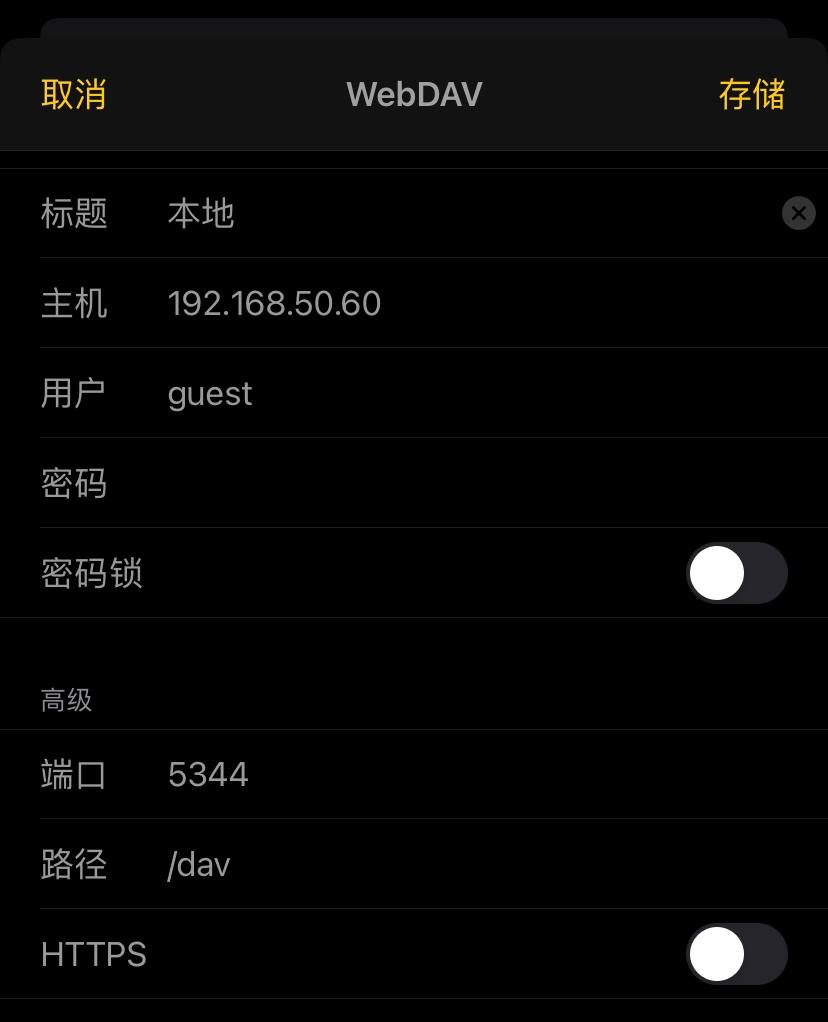
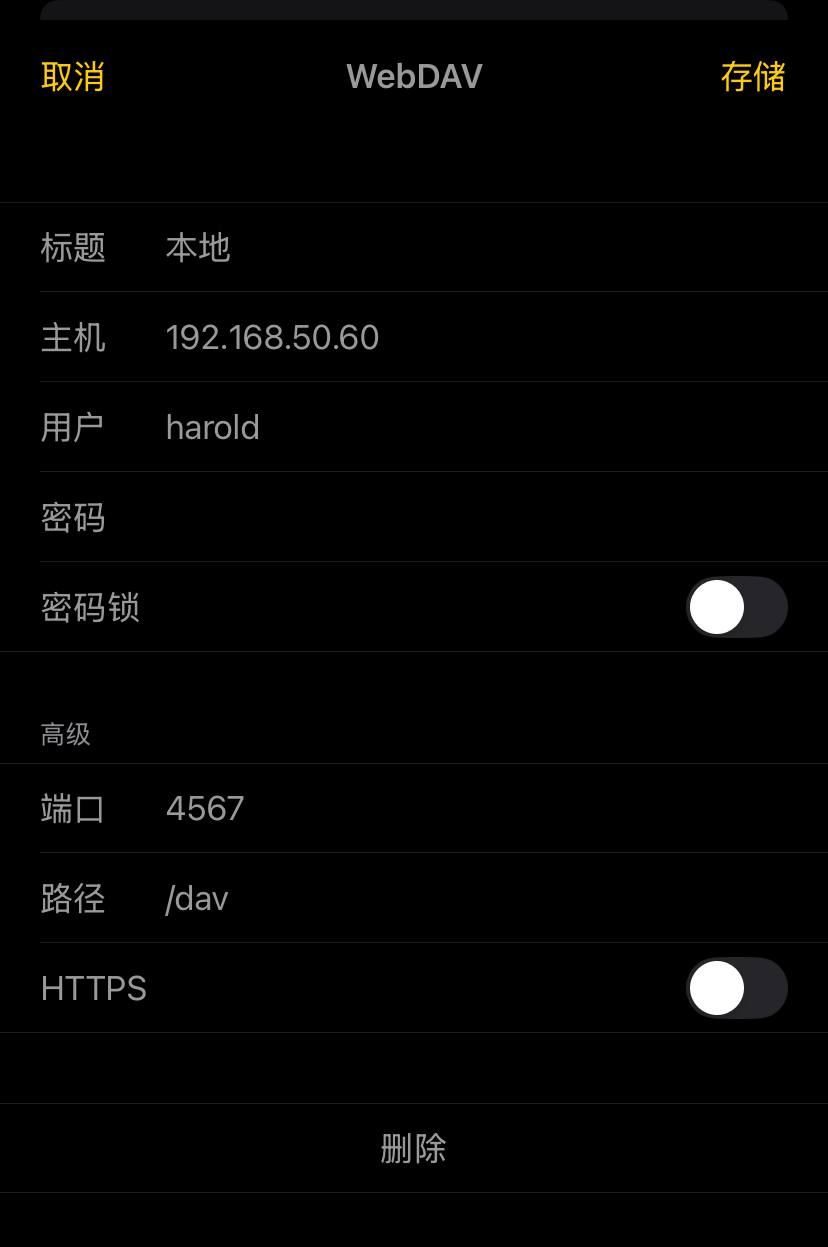
webdav代理

diff --git a/web-ui/src/views/VodView.vue b/web-ui/src/views/VodView.vue
@@ -69,7 +69,7 @@
           <el-table-column type="selection" width="55" v-if="isHistory"/>
           <el-table-column prop="vod_name" label="名称">
             <template #default="scope">
-              <el-popover :width="300" placement="left-start" v-if="scope.row.vod_tag=='folder'&&scope.row.vod_pic">
+              <el-popover :width="300" placement="left-start" v-if="scope.row.vod_pic">
                 <template #reference>
                   📺
                 </template>
@@ -1590,6 +1590,7 @@ const loadHistory = () => {
         id: e.id,
         vod_id: e.key,
         vod_name: e.vodName,
+        vod_pic: e.vodPic,
         vod_remarks: e.vodRemarks,
         index: e.episode + 1,
         progress: formatTime(e.position / 1000),

diff --git a/src/main/java/cn/har01d/alist_tvbox/config/WebDavProxyFilter.java b/src/main/java/cn/har01d/alist_tvbox/config/WebDavProxyFilter.java
@@ -1,0 +1,216 @@
+package cn.har01d.alist_tvbox.config;
+
+import jakarta.servlet.Filter;
+import jakarta.servlet.FilterChain;
+import jakarta.servlet.ServletException;
+import jakarta.servlet.ServletRequest;
+import jakarta.servlet.ServletResponse;
+import jakarta.servlet.http.HttpServletRequest;
+import jakarta.servlet.http.HttpServletResponse;
+import okhttp3.MediaType;
+import okhttp3.OkHttpClient;
+import okhttp3.Request;
+import okhttp3.RequestBody;
+import okhttp3.Response;
+import org.slf4j.Logger;
+import org.slf4j.LoggerFactory;
+import org.springframework.core.Ordered;
+import org.springframework.core.annotation.Order;
+import org.springframework.stereotype.Component;
+
+import java.io.IOException;
+import java.util.Enumeration;
+import java.util.concurrent.TimeUnit;
+
+@Component
+@Order(Ordered.HIGHEST_PRECEDENCE)
+public class WebDavProxyFilter implements Filter {
+    private static final Logger logger = LoggerFactory.getLogger(WebDavProxyFilter.class);
+    private final OkHttpClient okHttpClient;
+    private final String backendUrl = "http://127.0.0.1:5244";
+
+    public WebDavProxyFilter() {
+        okHttpClient = new OkHttpClient.Builder()
+                .connectTimeout(30, TimeUnit.SECONDS)
+                .readTimeout(60, TimeUnit.SECONDS)
+                .writeTimeout(60, TimeUnit.SECONDS)
+                .build();
+        logger.debug("WebDavProxyFilter {}", backendUrl);
+    }
+
+    @Override
+    public void doFilter(ServletRequest request, ServletResponse response, FilterChain chain)
+            throws IOException, ServletException {
+        HttpServletRequest httpRequest = (HttpServletRequest) request;
+        HttpServletResponse httpResponse = (HttpServletResponse) response;
+
+        if (!shouldProcessRequest(httpRequest)) {
+            chain.doFilter(request, response);
+            return;
+        }
+
+        //logRequestDetails(httpRequest);
+
+        try {
+            String targetUrl = buildTargetUrl(httpRequest);
+
+            Request proxyRequest = buildProxyRequest(httpRequest, targetUrl);
+
+            try (Response backendResponse = okHttpClient.newCall(proxyRequest).execute()) {
+                //logResponseDetails(backendResponse);
+
+                ensureRequiredHeaders(httpResponse);
+
+                if (backendResponse.code() == 405 && "OPTIONS".equals(httpRequest.getMethod())) {
+                    handleOptionsResponse(httpResponse);
+                    return;
+                }
+
+                copyResponse(backendResponse, httpResponse);
+            }
+        } catch (Exception e) {
+            logger.error("WebDAV proxy error", e);
+            httpResponse.sendError(HttpServletResponse.SC_INTERNAL_SERVER_ERROR);
+        }
+    }
+
+    private void logRequestDetails(HttpServletRequest request) {
+        logger.debug("=== Incoming Request ===");
+        logger.debug("Method: {}", request.getMethod());
+        logger.debug("Request URI: {}", request.getRequestURI());
+        logger.debug("Headers:");
+
+        Enumeration<String> headerNames = request.getHeaderNames();
+        while (headerNames.hasMoreElements()) {
+            String name = headerNames.nextElement();
+            logger.debug("  {}: {}", name, request.getHeader(name));
+        }
+
+        if (request.getContentLength() > 0) {
+            logger.debug("Content Type: {}", request.getContentType());
+            logger.debug("Content Length: {}", request.getContentLength());
+        }
+    }
+
+    private void logResponseDetails(Response response) {
+        logger.debug("=== Backend Response ===");
+        logger.debug("Status: {}", response.code());
+        logger.debug("Message: {}", response.message());
+        logger.debug("Headers:");
+
+        response.headers().forEach(pair -> {
+            logger.debug("  {}: {}", pair.getFirst(), pair.getSecond());
+        });
+    }
+
+    private boolean shouldProcessRequest(HttpServletRequest request) {
+        String path = request.getRequestURI().substring(request.getContextPath().length());
+        return path.startsWith("/dav");
+    }
+
+    private String buildTargetUrl(HttpServletRequest request) {
+        String path = request.getRequestURI().substring(request.getContextPath().length());
+        String queryString = request.getQueryString();
+        return backendUrl + path + (queryString != null ? "?" + queryString : "");
+    }
+
+    private Request buildProxyRequest(HttpServletRequest httpRequest, String targetUrl) throws IOException {
+        Request.Builder builder = new Request.Builder()
+                .url(targetUrl)
+                .method(httpRequest.getMethod(), createRequestBody(httpRequest));
+
+        Enumeration<String> headerNames = httpRequest.getHeaderNames();
+        while (headerNames.hasMoreElements()) {
+            String name = headerNames.nextElement();
+            if (!skipHeader(name)) {
+                Enumeration<String> values = httpRequest.getHeaders(name);
+                while (values.hasMoreElements()) {
+                    builder.addHeader(name, values.nextElement());
+                }
+            }
+        }
+
+        builder.addHeader("DAV", "1,2");
+
+        if ("PROPFIND".equalsIgnoreCase(httpRequest.getMethod())) {
+            builder.addHeader("Content-Type", "text/xml; charset=utf-8");
+            if (httpRequest.getHeader("Depth") == null) {
+                builder.addHeader("Depth", "1");
+            }
+        }
+
+        return builder.build();
+    }
+
+    private boolean skipHeader(String headerName) {
+        return headerName.equalsIgnoreCase("Content-Length") ||
+                headerName.equalsIgnoreCase("Host");
+    }
+
+    private RequestBody createRequestBody(HttpServletRequest request) throws IOException {
+        if (request.getContentLength() <= 0 ||
+                "GET".equalsIgnoreCase(request.getMethod()) ||
+                "HEAD".equalsIgnoreCase(request.getMethod())) {
+            return null;
+        }
+
+        byte[] content = request.getInputStream().readAllBytes();
+        MediaType mediaType = MediaType.parse(
+                request.getContentType() != null ?
+                        request.getContentType() :
+                        "application/octet-stream"
+        );
+
+        return RequestBody.create(content, mediaType);
+    }
+
+    private void handleOptionsResponse(HttpServletResponse httpResponse) {
+        httpResponse.setHeader("Allow", "OPTIONS, GET, HEAD, POST, PUT, DELETE, PROPFIND, PROPPATCH, MKCOL, COPY, MOVE, LOCK, UNLOCK");
+        httpResponse.setHeader("DAV", "1,2");
+        httpResponse.setStatus(HttpServletResponse.SC_OK);
+    }
+
+    private void copyResponse(Response source, HttpServletResponse target) throws IOException {
+        target.setStatus(source.code());
+
+        source.headers().forEach(pair -> {
+            if (!skipResponseHeader(pair.getFirst())) {
+                String headerName = pair.getFirst();
+                String headerValue = pair.getSecond();
+
+                if ("Content-Disposition".equalsIgnoreCase(headerName)) {
+                    headerValue = normalizeContentDisposition(headerValue);
+                }
+
+                target.addHeader(headerName, headerValue);
+            }
+        });
+
+        if (source.body() != null) {
+            source.body().byteStream().transferTo(target.getOutputStream());
+        }
+    }
+
+    private String normalizeContentDisposition(String original) {
+        if (original.contains("filename*=UTF-8''")) {
+            int start = original.indexOf("UTF-8''") + 7;
+            String encodedFilename = original.substring(start);
+            return "attachment; filename*=UTF-8''" + encodedFilename;
+        }
+        return original;
+    }
+
+    private void ensureRequiredHeaders(HttpServletResponse response) {
+        if (!response.containsHeader("Content-Type")) {
+            response.setContentType("text/xml; charset=utf-8");
+        }
+        if (!response.containsHeader("DAV")) {
+            response.addHeader("DAV", "1,2");
+        }
+    }
+
+    private boolean skipResponseHeader(String headerName) {
+        return headerName.equalsIgnoreCase("Transfer-Encoding") ||
+                headerName.equalsIgnoreCase("Connection");
+    }
+}

diff --git a/src/main/java/cn/har01d/alist_tvbox/config/WebSecurityConfiguration.java b/src/main/java/cn/har01d/alist_tvbox/config/WebSecurityConfiguration.java
@@ -30,6 +30,7 @@ public class WebSecurityConfiguration {
                                 new AntPathRequestMatcher("/tg/**"),
                                 new AntPathRequestMatcher("/tgs/**"),
                                 new AntPathRequestMatcher("/tv/**"),
+                                new AntPathRequestMatcher("/dav/**"),
                                 new AntPathRequestMatcher("/ali/access_token"),
                                 new AntPathRequestMatcher("/api/alist/status"),
                                 new AntPathRequestMatcher("/api/profiles"),

diff --git a/src/main/java/cn/har01d/alist_tvbox/config/MvcConfig.java b/src/main/java/cn/har01d/alist_tvbox/config/MvcConfig.java
@@ -1,11 +1,10 @@
 package cn.har01d.alist_tvbox.config;
 
+import cn.har01d.alist_tvbox.util.Utils;
 import org.springframework.context.annotation.Configuration;
 import org.springframework.web.servlet.config.annotation.PathMatchConfigurer;
 import org.springframework.web.servlet.config.annotation.ResourceHandlerRegistry;
 import org.springframework.web.servlet.config.annotation.WebMvcConfigurer;
-
-import cn.har01d.alist_tvbox.util.Utils;
 
 @Configuration
 public class MvcConfig implements WebMvcConfigurer {

diff --git a/doc/README_zh.md b/doc/README_zh.md
@@ -518,6 +518,7 @@ tvbox/my.json和juhe.json不能在TvBox直接使用，请使用订阅地址！
 
 ![WebDAV](https://raw.githubusercontent.com/power721/alist-tvbox/master/doc/webdav.jpg)
 
+4567端口代理了webdav请求。
 ### 电报搜索
 不登陆默认使用网页搜索公开频道资源。
 
